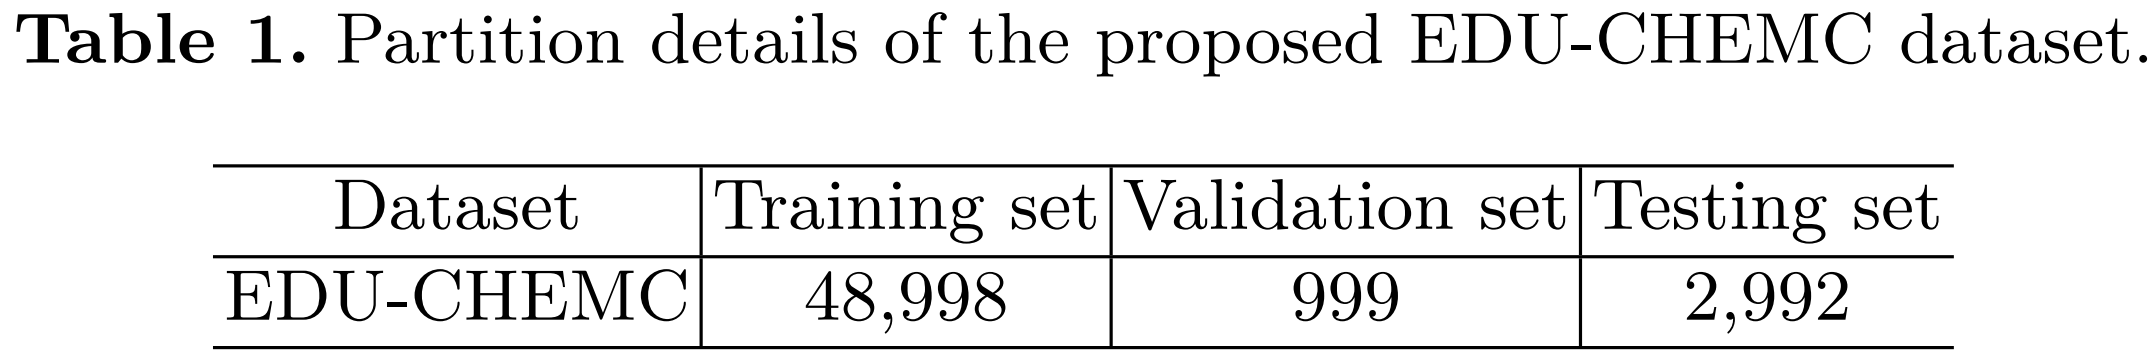
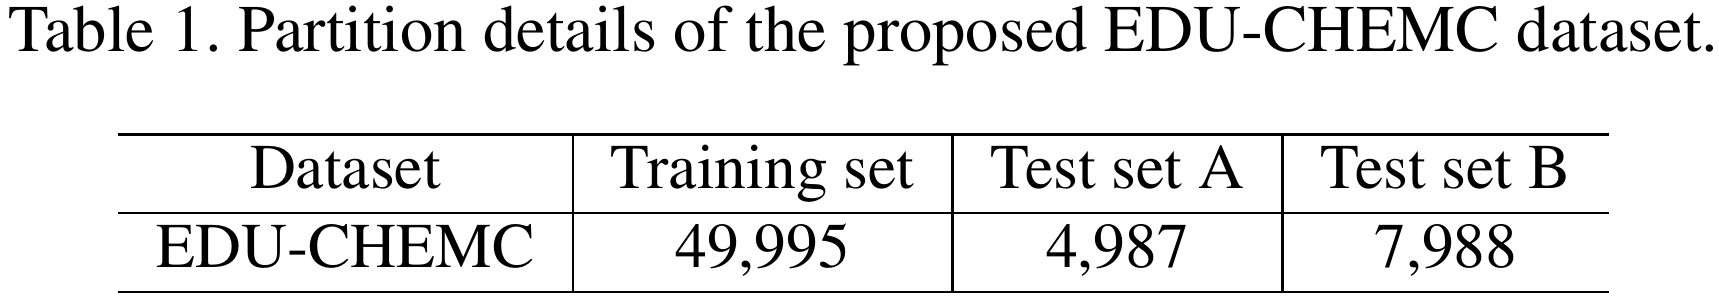
new dataset numbers

Changed region(s): [[0.0617, 0.4257, 0.925, 1.0], [0.0, 0.0, 1.0, 0.2432]]

diff --git a/index.html b/index.html
@@ -77,7 +77,7 @@
 			<div class="container">
 
 				<h1 style="font-size: 150%;">Introduction</h1>
-					<p>The purpose of this competition is to attract the attention of researchers in the field of Optical Character Recognition (OCR) to the challenge of recognizing handwritten chemical structures. This challenge is distinct from the traditional recognition of handwritten text and mathematical formulas, as the data format of chemical structures is more complex. Solving this problem would not only be an academic breakthrough but also have practical applications, particularly in the education of middle and high school organic chemistry. We have established a new benchmark for this issue and released a self-built dataset for handwritten chemical structure recognition, named EDU-CHEMC. We collected 52,987 images containing chemical structures from real educational settings in middle and high schools. The provided annotations include original Chemfig strings and structured strings after regularization, facilitating researchers in establishing baselines. The sole task of this competition is to accurately extract the information of the structural formulas in the images, including atoms, chemical bonds, and their connections. We hope that by hosting this competition, we can promote the development of the subfield of handwritten chemical image structure recognition.</p>
+					<p>The purpose of this competition is to attract the attention of researchers in the field of Optical Character Recognition (OCR) to the challenge of recognizing handwritten chemical structures. This challenge is distinct from the traditional recognition of handwritten text and mathematical formulas, as the data format of chemical structures is more complex. Solving this problem would not only be an academic breakthrough but also have practical applications, particularly in the education of middle and high school organic chemistry. We have established a new benchmark for this issue and released a self-built dataset for handwritten chemical structure recognition, named EDU-CHEMC. We collected 62,970 images containing chemical structures from real educational settings in middle and high schools. The provided annotations include original Chemfig strings and structured strings after regularization, facilitating researchers in establishing baselines. The sole task of this competition is to accurately extract the information of the structural formulas in the images, including atoms, chemical bonds, and their connections. We hope that by hosting this competition, we can promote the development of the subfield of handwritten chemical image structure recognition.</p>
 
 					
 			</div>
@@ -88,10 +88,10 @@
 				<h1 style="font-size: 150%;">Planned Schedule (AOE Time)</h1>
 				<ul>
 					<li>Registration open:  <strong>January 10, 2024</strong></li>
-					<li>Training set and Validation set release: <strong>January 15, 2024 </strong></li>
-					<li>Registration close, Test set release: <strong>March 20, 2024</strong></li>
+					<li>Training set release: <strong>January 15, 2024 </strong></li>
+					<li>Test set A and Leaderboard A release: <strong>January 27, 2024 </strong></li>
+					<li>Registration close, Test set B release: <strong>March 20, 2024</strong></li>
 					<li>Deadline for the competition: <strong>March 31, 2024</strong></li>
-					<li>Results release: <strong>April 5, 2024</strong></li>
 					<li>Deadline for the submitting technical reports: <strong>April 10, 2024</strong></li>
 				</ul>
 			</div>
@@ -106,7 +106,7 @@
 
 					<section class="col-6 col-12-narrower">
 						<div class="box post">
-							<a href="https://icdar2024.net/" class="image left"><img src="images/anonymous.jpeg"
+							<a href="https://icdar2024.net/" class="image left"><img src="images/wuhao.png"
 									alt="" /></a>
 							<div class="inner">
 								<br />
@@ -184,7 +184,7 @@
 					<section class="col-6 col-12-narrower">
 						<div class="box post">
 							<a href="https://icdar2024.net/" class="image left"><img
-									src="images/anonymous.jpeg" alt="" /></a>
+									src="images/chenmingjun.png" alt="" /></a>
 							<div class="inner">
 								<br />
 								<a href="https://icdar2024.net/">
@@ -202,7 +202,7 @@
 					<section class="col-6 col-12-narrower">
 						<div class="box post">
 							<a href="https://scholar.google.com/citations?user=uXtYy_8AAAAJ" class="image left"><img
-									src="images/anonymous.jpeg" alt="" /></a>
+									src="images/yinbaocai.png" alt="" /></a>
 							<div class="inner">
 								<br />
 								<a href="https://scholar.google.com/citations?user=uXtYy_8AAAAJ">
@@ -215,7 +215,7 @@
 
 					<section class="col-6 col-12-narrower">
 						<div class="box post">
-							<a href="https://scholar.google.com/citations?user=xLwstVAAAAAJ" class="image left"><img src="images/anonymous.jpeg"
+							<a href="https://scholar.google.com/citations?user=xLwstVAAAAAJ" class="image left"><img src="images/hujinshui.png"
 									alt="" /></a>
 							<div class="inner">
 								<br />

diff --git a/overview.html b/overview.html
@@ -81,7 +81,7 @@
 									 </center>
 									 <br>
 									
-									  <p>To support the training and evaluation of the aforementioned recognition task, we have provided a comprehensive dataset comprising 48,998 training set images, 999 validation set images and 2,992 testing set images. The images are annotated in the form of strings, but they can be converted into graph structures using the tools we provide, as shown in Figure 2. Participants are required to construct models that output in the specified format, either as strings or graphs. These outputs will then be assessed using our graph comparison tool to evaluate the performance metrics.</p>
+									  <p>To support the training and evaluation of the aforementioned recognition task, we have provided a comprehensive dataset comprising 49,995 images in training set , 4,987 images in test set A and 7,988 images in testing set B. The images are annotated in the form of strings, but they can be converted into graph structures using the tools we provide, as shown in Figure 2. Participants are required to construct models that output in the specified format, either as strings or graphs. These outputs will then be assessed using our graph comparison tool to evaluate the performance metrics.</p>
 									  
 									  <center>
 										<figure style="padding:0px;border:0px; margin:0px">

diff --git a/data.html b/data.html
@@ -59,7 +59,7 @@
 			<!-- Main -->
 				<section class="wrapper style1">
 					<div class="container">
-						<p>The proposed handwritten dataset is named <strong>EDU-CHEMC</strong> and it consists of 52,987 handwritten molecular structure images collected in educational scenarios. These images were obtained using various devices such as cameras, scanners, and screens, and are labeled as native Chemfig strings. The key characteristics of this dataset are as follows:</p>
+						<p>The proposed handwritten dataset is named <strong>EDU-CHEMC</strong> and it consists of 62,970 handwritten molecular structure images collected in educational scenarios. These images were obtained using various devices such as cameras, scanners, and screens, and are labeled as native Chemfig strings. The key characteristics of this dataset are as follows:</p>
 						<!-- <p></br></p> -->
 						<h3 style="font-size: 120%;">Real-world Educational Scenarios</h3>
 						<p>The dataset includes handwritten molecular structures from primary and secondary education scenarios, which, to our knowledge, have never been made publicly available before. Additionally, a small proportion of the data comprises people copying and photographing <a href="https://www.ebi.ac.uk/chembl/">ChEMBL3</a> molecular structures, also under real settings.</p>
